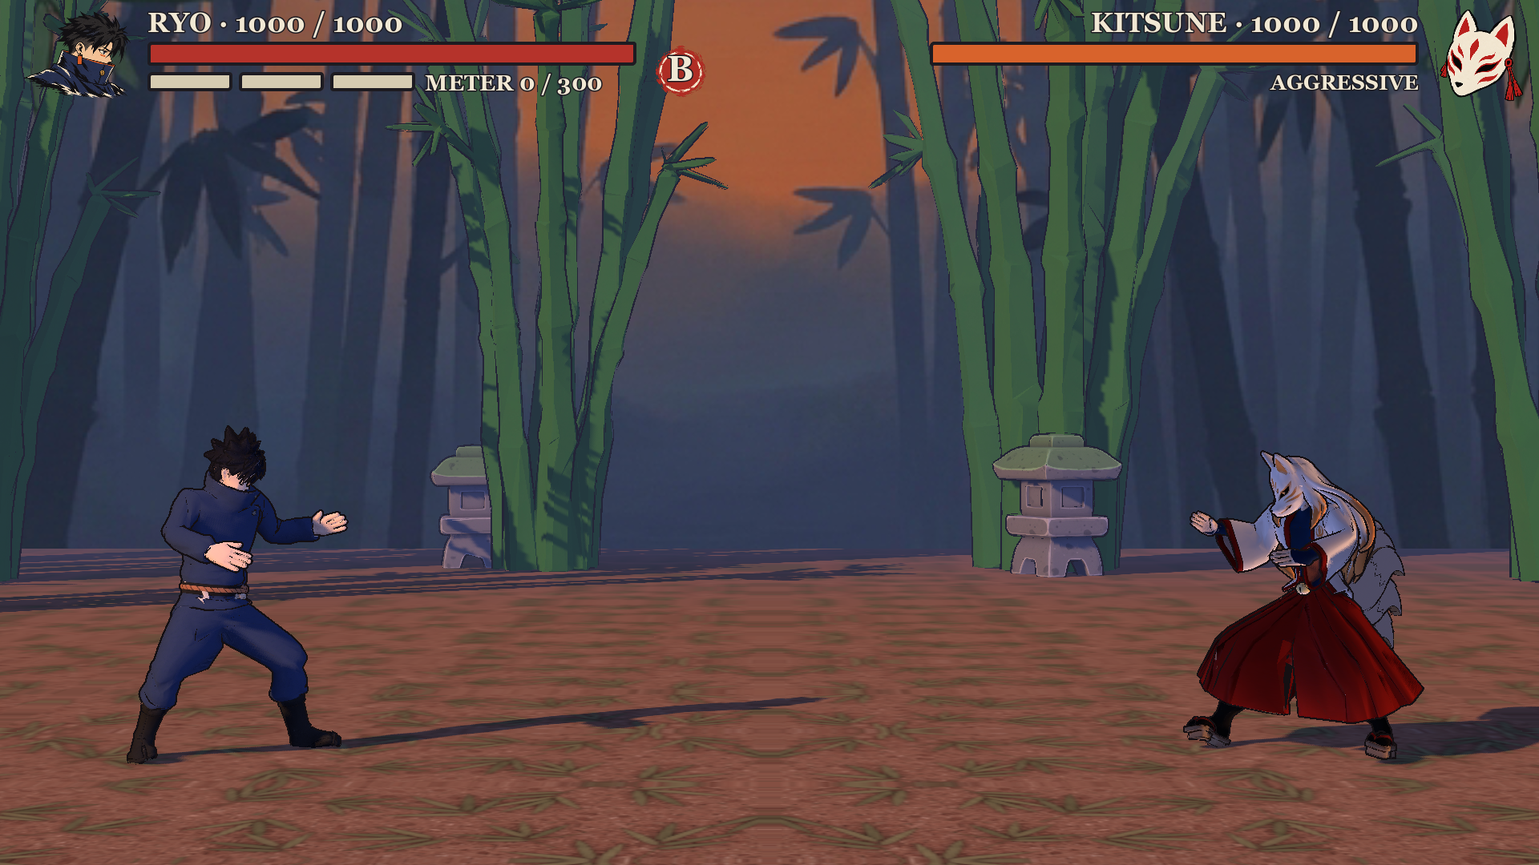
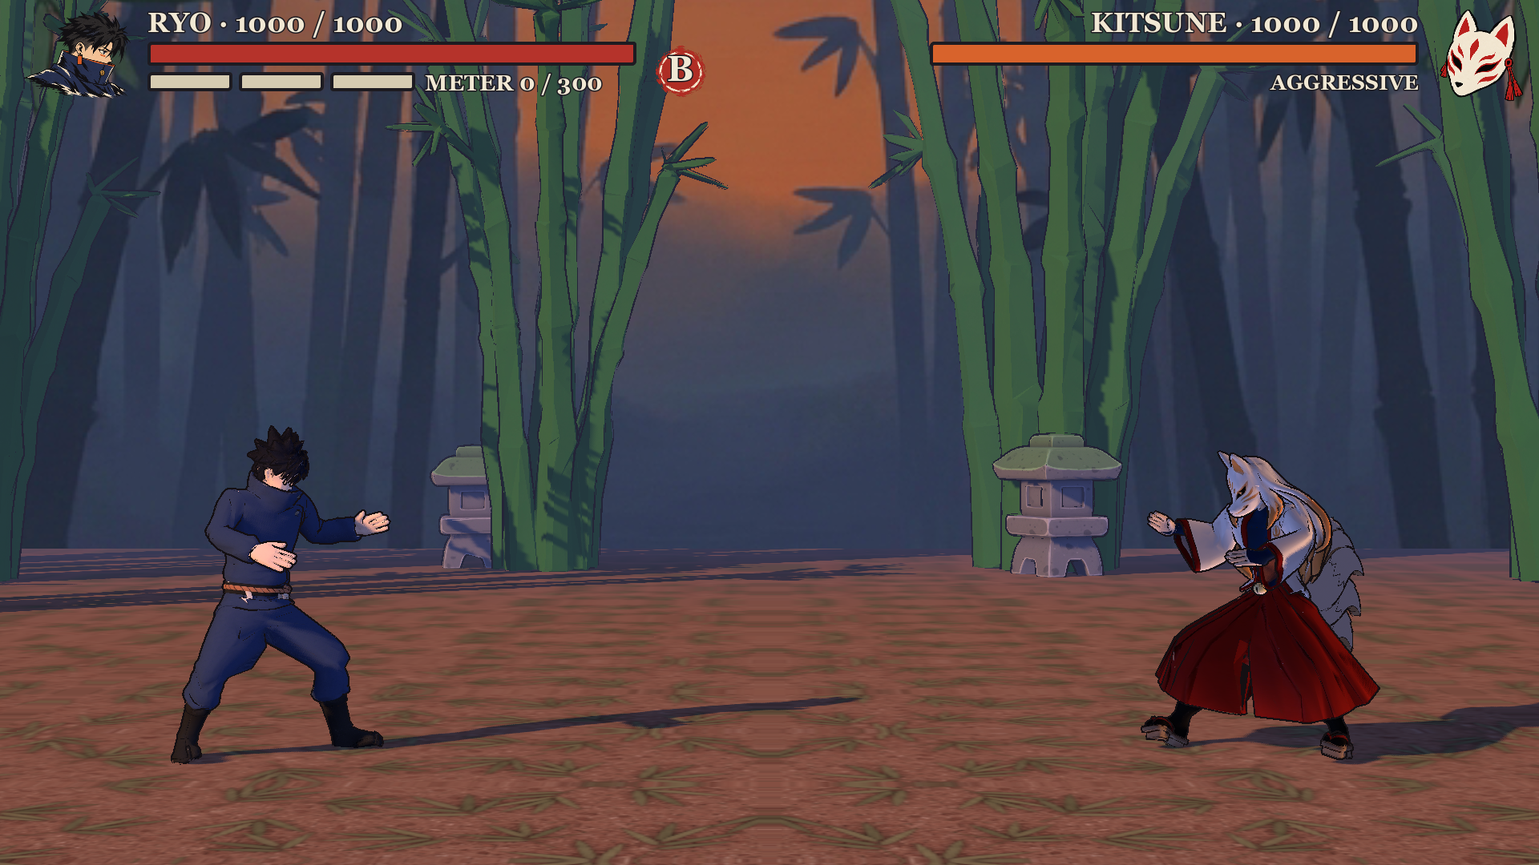
YOK-120-closer-camera-walls: walls 960, derived from view width and model reach (E1)
Test Breaker round 1: a fighter facing away shows its 240 front reach outside,
so 1040 + 2x240 > 1440 clipped by up to 40. MaxSeparation is now derived as
ViewWidth - 2 x max(front, back reach) = 960 (init still overrides). Trial
max distance follows it (TrialLoader.MaxStartDistance, schema 960). Probe
constants 1040/1041/520 -> 960/961/480. Coverage seed 7 -> 8. AM7, E1, log,
map, max-separation capture updated.

Changed region(s): [[0.0625, 0.4889, 0.5625, 0.8861], [0.7188, 0.5194, 1.0, 0.8861]]

diff --git a/game/tests/probes/CloserCameraProbes.cs b/game/tests/probes/CloserCameraProbes.cs
@@ -25,7 +25,7 @@ public static class CloserCameraProbes
 		return m;
 	}
 
-	// E1: fighters at most 1,040 apart AND both models in frame. Fuzz with throws, specials, jumps, dashes, from
+	// E1: fighters at most 960 apart AND both models in frame. Fuzz with throws, specials, jumps, dashes, from
 	// corner starts and mid-stage, over several seeds; check every tick, including side switches (jump-overs).
 	[Test]
 	public static void Walls_HoldUnderEverything_CornersAndMid()
@@ -82,17 +82,17 @@ public static class CloserCameraProbes
 			var m2 = NewMatch();
 			m2.P1.X = -sign * 100; m2.P2.X = sign * (c.MaxSeparation - 100) ;
 			for (int t = 0; t < 30; t++) m2.Step(In(sign > 0 ? InputBits.Left : InputBits.Right), In(sign > 0 ? InputBits.Right : InputBits.Left));
-			Assert.Equal(c.MaxSeparation, Math.Abs(m2.P2.X - m2.P1.X), "walking apart holds at exactly 1,040 (not 1,039, not 1,041)");
+			Assert.Equal(c.MaxSeparation, Math.Abs(m2.P2.X - m2.P1.X), "walking apart holds at exactly 960 (not 1,039, not 961)");
 		}
 	}
 
-	// F4/E1: the view is fixed 1,440 and centred on the midpoint: with fighters 1,040 apart in the corner, models 240/200 inside.
+	// F4/E1: the view is fixed 1,440 and centred on the midpoint: with fighters 960 apart in the corner, models 240/200 inside.
 	[Test]
 	public static void Camera_ExactCornerExtents_BothFacingsAndSides()
 	{
 		var c = SimConfig.Default;
 		Assert.Equal(1440 * SimConfig.Scale, c.ViewWidth, "E1: one screen is 1,440 units");
-		Assert.Equal(1040 * SimConfig.Scale, c.MaxSeparation, "E1: 1,040 apart");
+		Assert.Equal(960 * SimConfig.Scale, c.MaxSeparation, "E1: 960 apart");
 		Assert.Equal(3840 * SimConfig.Scale, c.StageHalfWidth * 2, "E1: stage 3,840 wide");
 		int corner = c.StageHalfWidth - c.BodyWidth / 2;
 		foreach (int side in new[] { -1, 1 })
@@ -161,21 +161,21 @@ public static class CloserCameraProbes
 		Assert.True(Math.Abs(dn / dw - 0.75f) < 1e-3f, $"distance ratio {dn / dw} should be 1440/1920 = 0.75 (same FOV)");
 	}
 
-	// R7 / E1: trial start distance 1,040 accepted, 1,041 rejected; also in a goal-step distance bound.
+	// R7 / E1: trial start distance 960 accepted, 961 rejected; also in a goal-step distance bound.
 	[Test]
-	public static void Trial_StartDistanceBoundary_1040In_1041Out()
+	public static void Trial_StartDistanceBoundary_960In_961Out()
 	{
 		string f = File.ReadAllText(Path.Combine(ContentPaths.FixturesDir, "trials", "test-spirit-wave-trial.json"));
-		Assert.Equal(1040, TrialLoader.Parse(f.Replace("\"distance\": 600,", "\"distance\": 1040,")).Distance, "1,040 accepted");
+		Assert.Equal(960, TrialLoader.Parse(f.Replace("\"distance\": 600,", "\"distance\": 960,")).Distance, "960 accepted");
 		Assert.Equal(120, TrialLoader.Parse(f.Replace("\"distance\": 600,", "\"distance\": 120,")).Distance, "120 accepted");
-		foreach (int bad in new[] { 1041, 1520, 119, 0, -1 })
+		foreach (int bad in new[] { 961, 1520, 119, 0, -1 })
 		{
 			bool threw = false;
 			try { TrialLoader.Parse(f.Replace("\"distance\": 600,", $"\"distance\": {bad},")); } catch (FormatException) { threw = true; }
 			Assert.True(threw, $"start distance {bad} rejected");
 		}
-		TrialLoader.Parse(f.Replace("\"max\": 900", "\"max\": 1040"));
-		foreach (string repl in new[] { "\"max\": 1041", "\"min\": 1041", "\"max\": 1520" })
+		TrialLoader.Parse(f.Replace("\"max\": 900", "\"max\": 960"));
+		foreach (string repl in new[] { "\"max\": 961", "\"min\": 961", "\"max\": 1520" })
 		{
 			bool threw = false;
 			string src = repl.StartsWith("\"max") ? f.Replace("\"max\": 900", repl) : f.Replace("\"min\": 400", repl);
@@ -184,14 +184,14 @@ public static class CloserCameraProbes
 		}
 	}
 
-	// A trial start at 1,040 plays out: the fighters at the declared distance are legal and in frame.
+	// A trial start at 960 plays out: the fighters at the declared distance are legal and in frame.
 	[Test]
 	public static void Trial_StartAtMaxDistance_InFrameAndLegal()
 	{
 		var m = NewMatch();
-		m.P1.X = -520 * SimConfig.Scale; m.P2.X = 520 * SimConfig.Scale;
+		m.P1.X = -480 * SimConfig.Scale; m.P2.X = 480 * SimConfig.Scale;
 		for (int t = 0; t < 20; t++) m.Step(FighterInput.None, FighterInput.None);
-		Assert.Equal(1040 * SimConfig.Scale, m.P2.X - m.P1.X, "start separation survives");
+		Assert.Equal(960 * SimConfig.Scale, m.P2.X - m.P1.X, "start separation survives");
 		Assert.True(FightCamera.BothInView(m), "in frame");
 	}
 

diff --git a/game/scripts/Sim/SimConfig.cs b/game/scripts/Sim/SimConfig.cs
@@ -29,12 +29,19 @@ public sealed partial record SimConfig
 	public int BodyWidth { get; init; } = 120 * Scale;
 
 	/// <summary>
-	/// Screen walls: the farthest two fighters may be apart so both stay in view, with both models' back reach (a
-	/// knocked-down body lies 200 behind its X, <see cref="ModelBackReach"/>) inside the view. E1/AM7 (YOK-120):
-	/// 1,040 + 2 x 200 = 1,440 = <see cref="ViewWidth"/> (was 1,520 for the 1,920 view, YOK-39). Trial start
-	/// distances are capped at this (TrialData.MaxStartDistance, trial.schema.json).
+	/// Screen walls: the farthest two fighters may be apart so both models stay in view whichever way each faces.
+	/// Derived, so it cannot drift: <see cref="ViewWidth"/> - 2 x the larger model reach (front 240 / back 200), because
+	/// a fighter facing away from the other shows its 240 front reach on the outside. E1/AM7 (YOK-120):
+	/// 960 + 2 x 240 = 1,440 (was 1,520 for the 1,920 view, YOK-39, which only budgeted the 200 back reach).
+	/// Setting it in an initializer overrides the derivation (tests). Trial start distances are capped at this
+	/// (TrialData.MaxStartDistance, trial.schema.json).
 	/// </summary>
-	public int MaxSeparation { get; init; } = 1040 * Scale;
+	public int MaxSeparation
+	{
+		get => _maxSeparation ?? ViewWidth - 2 * System.Math.Max(System.Math.Max(ModelFrontReach, ModelBackReach), BodyWidth / 2);
+		init => _maxSeparation = value;
+	}
+	private readonly int? _maxSeparation;
 
 	/// <summary>
 	/// YOK-39: how far a fighter's rigged model reaches past its X toward its facing (front) and away from it (back),

diff --git a/game/tests/ReplayTests.cs b/game/tests/ReplayTests.cs
@@ -163,7 +163,7 @@ public static class ReplayTests
 	static void RandomCoverage()
 	{
 		FightScene.Run = null;
-		foreach (var (seed, s1, s2) in new[] { (1, ControlScheme.Kata, ControlScheme.Kihon), (7, ControlScheme.Kihon, ControlScheme.Kata), (6, ControlScheme.Kata, ControlScheme.Kata) }) // coverage seeds, re-picked when a sim change stops one bursting: YOK-120 (AM7 walls 1040) stopped seeds 4 and 5 bursting, so 7 and 6 (earlier: 3 -> 5 for wake-ups, 2 -> 4 for the YOK-39 walls)
+		foreach (var (seed, s1, s2) in new[] { (1, ControlScheme.Kata, ControlScheme.Kihon), (8, ControlScheme.Kihon, ControlScheme.Kata), (6, ControlScheme.Kata, ControlScheme.Kata) }) // coverage seeds, re-picked when a sim change stops one bursting: YOK-120 (AM7 walls, 960) stopped seeds 4 and 5 bursting, so 8 and 6 (earlier: 3 -> 5 for wake-ups, 2 -> 4 for the YOK-39 walls)
 		{
 			var m = FightScene.NewMatch();
 			m.P1.Input.Scheme = s1;

diff --git a/game/scripts/Sim/Run/TrialData.cs b/game/scripts/Sim/Run/TrialData.cs
@@ -153,7 +153,9 @@ public static class TrialLoader
 	public static readonly string[] KataOnlyKeys = { "motion", "precision", "kata" };
 
 	// Bounds mirror trial.schema.json: distance = SimConfig body width .. max separation (gameplay units, AM7).
-	public const int MinStartDistance = 120, MaxStartDistance = 1040;
+	public const int MinStartDistance = 120;
+	/// <summary>The screen walls (SimConfig.MaxSeparation, 960 under AM7), so the bound cannot drift from the sim.</summary>
+	public static readonly int MaxStartDistance = SimConfig.Default.MaxSeparation / SimConfig.Scale;
 	public const int MinAttemptFrames = 60, MaxAttemptFrames = 3600;
 	public const int MaxSteps = 4, MaxCount = 10, MaxLandedWithin = 60, MaxEvery = 600, MaxDummyMoves = 4, MaxPrompt = 160;
 

diff --git a/game/tests/TrialTests.cs b/game/tests/TrialTests.cs
@@ -155,7 +155,7 @@ public static class TrialTests
 		Assert.True(!step.DummyStateMet(false, bestLand), "and could never be met if it were read when the throw lands");
 		Assert.True(!step.DummyStateMet(true, 0), "airborne is not landed");
 		Assert.True(!step.DummyStateMet(false, 4) && !step.DummyStateMet(false, 2000), "too long ago, or never jumped");
-		Assert.True(step.DistanceMet(0) && step.DistanceMet(1520), "no distance asked");
+		Assert.True(step.DistanceMet(0) && step.DistanceMet(TrialLoader.MaxStartDistance), "no distance asked");
 		var ranged = TrialLoader.LoadFile(FixturePath).Steps[0];
 		Assert.True(ranged.DistanceMet(400) && ranged.DistanceMet(900) && !ranged.DistanceMet(399) && !ranged.DistanceMet(901), "distance bounds are inclusive");
 	}

diff --git a/docs/codebase-map.md b/docs/codebase-map.md
@@ -20,7 +20,7 @@ Pure C#, **no Godot types**, integers only, so it runs headless for tests and th
 
 | File | Purpose |
 |---|---|
-| `SimConfig.cs` | Fight constants (record with defaults; a data loader fills it later). Positions in **centi-units** (`Scale` = 100 per gameplay unit). Stage half-width, view width, body (push-box) width, max separation (screen walls), walk speed (C2), max health (C1), KO slow-down (V4); YOK-16 fight-wide hit fallbacks: idle hurtbox, default hit/block pushback, knockdown frames (placeholder, C4), counterhit +20% / +6 (C7). YOK-18 movement: `DashFrames` 18 / `JumpFrames` 40 (C2) with **proposed** dash distances (300 fwd, 240 back), jump height 250 and drift 8 units/frame; `JumpY(n)` integer parabola, `DashStep(n, dist)` exact per-frame split. `WakeUpFrames` (YOK-53 follow-up, 28 proposed, 0 = none) follows `KnockdownFrames` in `Match.AdvanceState`. Idle hurtboxes per stance (E5, measured from the models in YOK-33, designer accepted in YOK-39): standing `IdleHurtbox` 90x320, `CrouchHurtbox` 90x240, `AirHurtbox` Box(-45, 40, 90, 270). YOK-120/AM7 (proposed): `ViewWidth` 1440 (was 1920) and `MaxSeparation` 1040 (was 1520, before that 1600, E1); `StageHalfWidth` stays 1920 (3,840-unit stage) and `ModelFrontReach` 240 / `ModelBackReach` 200 (models' measured reach, read only by `FightCamera`). |
+| `SimConfig.cs` | Fight constants (record with defaults; a data loader fills it later). Positions in **centi-units** (`Scale` = 100 per gameplay unit). Stage half-width, view width, body (push-box) width, max separation (screen walls), walk speed (C2), max health (C1), KO slow-down (V4); YOK-16 fight-wide hit fallbacks: idle hurtbox, default hit/block pushback, knockdown frames (placeholder, C4), counterhit +20% / +6 (C7). YOK-18 movement: `DashFrames` 18 / `JumpFrames` 40 (C2) with **proposed** dash distances (300 fwd, 240 back), jump height 250 and drift 8 units/frame; `JumpY(n)` integer parabola, `DashStep(n, dist)` exact per-frame split. `WakeUpFrames` (YOK-53 follow-up, 28 proposed, 0 = none) follows `KnockdownFrames` in `Match.AdvanceState`. Idle hurtboxes per stance (E5, measured from the models in YOK-33, designer accepted in YOK-39): standing `IdleHurtbox` 90x320, `CrouchHurtbox` 90x240, `AirHurtbox` Box(-45, 40, 90, 270). YOK-120/AM7 (proposed): `ViewWidth` 1440 (was 1920) and `MaxSeparation` 960, derived as `ViewWidth` − 2 × the larger model reach unless set (was 1520, before that 1600, E1); `StageHalfWidth` stays 1920 (3,840-unit stage) and `ModelFrontReach` 240 / `ModelBackReach` 200 (models' measured reach, read only by `FightCamera`). |
 | `FighterInput.cs` | `InputBits` flags + `FighterInput(Bits, Move)`: one fighter's **raw** input for one tick — absolute Left/Right/Up/Down, six attack buttons (LP MP HP LK MK HK) and Kihon's `Special` (K1/K2) — plus `Move` (0 = none, n = move slot n-1, sent on the tick a move is requested; `FighterInput.Attack(slot)`; YOK-21: 201-204 = special slot A-D, 205-208 = EX, `FighterInput.Special(slot, ex)`, no precision bonus). Device mapping, the AI (P6) and replays produce the bits; the input layer below turns them into commands. `Debug*` bits are YOK-15 placeholders (cross-up, flat strike) kept for the loop tests. |
 | `Fighter.cs` | `Fighter` state (X/Y on the 2D plane, Facing ±1, health, KO, previous input for edge detection, queued damage) and move state (YOK-16): `Moves` by slot, `FighterState` (Idle, Attack, Hitstun, Blockstun, Knockdown), `MoveSlot`/`MoveFrame` (1-based), `MoveConnected`, `StunLeft`, `Guarding`/`Crouching`, `Actionable`, `CurrentMove`; `Fnv` state hashing; `SimRng` seeded xorshift32 (the only RNG gameplay may use). YOK-18: `Input` (the fighter's `InputReader`), `AirFrame`/`JumpDir`/`Airborne`, `DashFrame`/`DashDir`; states `Dash` and `Jump` (airborne, no control; lands into Idle). YOK-53 follow-up: `WakeUp` (after the 40-frame knockdown, `SimConfig.WakeUpFrames` = 28 **proposed**: invulnerable via `Invulnerable`, not throwable, not actionable, no hurtbox; then Idle); `FighterStates.IsDown()` = Knockdown or WakeUp. YOK-19: state `Thrown` (grabbed; `StunLeft` = break-window frames left). YOK-20: state `Burst`. YOK-55: `AirAttackUsed`, state `Landing` (see `Match.Air.cs`). `WalkDir` (this tick's own walk step, YOK-39 drift fix; not hashed). |
 | `MoveData.cs` | `MoveData` (YOK-16): one move's Lv 1 frame data as loaded: startup/active/recovery, damage, hitstun/blockstun, optional pushback, knockdown, low, `Hitboxes`/`Hurtboxes` as `TimedBox(First, Last, Box)` in gameplay units (x toward the opponent). `IsActive(frame)`, `TotalFrames`, `AdvantageOnHit/OnBlock`. Normals (YOK-18): `Button` (None = special), `DirectionMask` (numpad bits, 0 = any), `IsNormal`, `NormalMatch(button, dir)`. Throws (YOK-19): `ThrowButtons` (two-button mask), `Throwboxes`, `BreakWindow`, `BreakPushback`, `IsThrow`, `ThrowMatch(pressed)`. |
@@ -258,7 +258,7 @@ JSON Schema draft 2020-12. Every content file is one JSON object with a top-leve
 | `story_card` | `story-card.schema.json` | `data/story/` | YOK-44: id, status, trigger (S3 schedule entry), optional title, text (S2, max 280), `placeholders` (`yokai`, `move`; the validator checks every `{name}` in title/text is listed and every listed one used, S4), speaker, rules, notes. Read by `StoryLibrary` |
 | `run_map` | `run-map.schema.json` | `data/map/` | YOK-76 (R1, R2, Y3): `schema_version` (1), optional name/status/`rules`, `nodes` (`id`, `row`, open `type` id, optional `yokai` id, `elder`, `label`, free-form `payload` object the map never reads) and `routes` (`from`/`to` node ids). `type` and `yokai` are open ids on purpose (the C# node-type registry decides which types exist). Read by `MapLoader` |
 | `node_scenes` | `node-scenes.schema.json` | `data/map/` | YOK-77 (R2, R3, A7, Y4): `default_scene`, `fallback_fighter`, `tiers` (`reaction_frames`), `types` (each needs `tier`; optional `scene`, `opponent`, `profile`, `binds`), optional `nodes` (same fields, per node id) and `opponents` (`fighter`, `tier`, `profile` per yokai id). Validator: every tier named is defined, and every node type used by a run map in the same folder has an entry. |
-| `trial` | `trial.schema.json` | `data/trials/` | YOK-105 (R7, K2): id, status, `special` it levels, `prompt`, `attempts` (const 3), `setup` (`distance` 120–1040 units (AM7), `attempt_frames` 60–3600, `dummy` {`action` idle/crouch/guard/crouch_guard/jump/attack, `moves` for attack, `every` for jump/attack}), `goal.steps` (1–4, in order: `event` hit/combo/throw/block, optional `move`, `count`, `counter`, `dummy_state` airborne/grounded/landed + `landed_within`, `distance` {min,max}). A throw step's `dummy_state`/`distance` are read on the grab tick; throws never count as `hit` or toward `combo`. Validator (`check_trial`, same as the loader): Kata-only step keys (motion, precision, kata) rejected as not Kihon-completable, one step names the trial's special, distance min ≤ max (whole floats compared as numbers), `block` and `counter: true` only with dummy `attack`, `every` ≤ `attempt_frames`, and for moves found in `data/moves/` or the same run a throw only in a throw step. Read by `TrialLoader`. No shipped trials yet (YOK-98); `tools/export-windows.sh` does not copy `data/trials/` yet. |
+| `trial` | `trial.schema.json` | `data/trials/` | YOK-105 (R7, K2): id, status, `special` it levels, `prompt`, `attempts` (const 3), `setup` (`distance` 120–960 units (AM7, `TrialData.MaxStartDistance` = `MaxSeparation`), `attempt_frames` 60–3600, `dummy` {`action` idle/crouch/guard/crouch_guard/jump/attack, `moves` for attack, `every` for jump/attack}), `goal.steps` (1–4, in order: `event` hit/combo/throw/block, optional `move`, `count`, `counter`, `dummy_state` airborne/grounded/landed + `landed_within`, `distance` {min,max}). A throw step's `dummy_state`/`distance` are read on the grab tick; throws never count as `hit` or toward `combo`. Validator (`check_trial`, same as the loader): Kata-only step keys (motion, precision, kata) rejected as not Kihon-completable, one step names the trial's special, distance min ≤ max (whole floats compared as numbers), `block` and `counter: true` only with dummy `attack`, `every` ≤ `attempt_frames`, and for moves found in `data/moves/` or the same run a throw only in a throw step. Read by `TrialLoader`. No shipped trials yet (YOK-98); `tools/export-windows.sh` does not copy `data/trials/` yet. |
 | — | `common.schema.json` | — | Shared `$defs`: id, yokai, rarity, status, ruleIds, card, frameRange, rect, timedRect, condition, effect |
 
 Not covered yet (out of YOK-12 scope): economy, presets, sound.

diff --git a/docs/design/gdd-amendments.md b/docs/design/gdd-amendments.md
@@ -149,7 +149,7 @@ Rule S3 in `docs/design/rules.md` carries the new wording.
 
 **Status.** Proposed on branch `YOK-120-closer-camera-walls`. The designer asked to "try bringing the walls in" (YOK-120, 2026-10-15); the numbers below are a first try and become approved only when the designer approves the PR.
 
-**Decision.** The fight camera sits closer to the fighters and stays fixed in distance. One screen at the gameplay plane is **1,440 units** (7.2 m), was 1,920 (9.6 m). The screen walls come in with it: fighters are at most **1,040 units** apart, was 1,520, so both rigged models (up to 200 units behind their position) still fit: 1,040 + 2 × 200 = 1,440. The stage stays **3,840 units** wide (two of the old 1,920-unit screens, now about 2.7 of the new ones), so the stage art and the part of it the camera can ever show are unchanged. The camera still follows the fighters' midpoint and stops where a cornered fighter's model (up to 240 units ahead, 200 behind) meets the screen edge. All four numbers are tunable in one place (`SimConfig`).
+**Decision.** The fight camera sits closer to the fighters and stays fixed in distance. One screen at the gameplay plane is **1,440 units** (7.2 m), was 1,920 (9.6 m). The screen walls come in with it: fighters are at most **960 units** apart, was 1,520, so both rigged models stay in frame whichever way each faces. A model reaches up to 240 units ahead of its position and 200 behind; a fighter facing away from the other (after a cross-up, a throw or a back dash) shows its 240-unit front reach on the outside, so the walls budget the larger reach on both sides: 960 + 2 × 240 = 1,440. (The YOK-39 walls, 1,520 + 2 × 200 = 1,920, budgeted only the back reach, and a fighter facing away could clip by up to 40 units; test-breaker probes on YOK-120 found it.) `SimConfig` derives the walls from the screen width and the model reach, so the two cannot drift apart. The stage stays **3,840 units** wide (two of the old 1,920-unit screens, now about 2.7 of the new ones), so the stage art and the part of it the camera can ever show are unchanged. The camera still follows the fighters' midpoint and stops where a cornered fighter's model (up to 240 units ahead, 200 behind) meets the screen edge. The screen width and stage width are tunable in one place (`SimConfig`); the walls follow from the screen width.
 
 **Why.** Bigger fighters on screen: at 1,920 units a 1.8 m fighter filled about a third of the screen height; at 1,440 units, about 44%. A fixed closer camera keeps V7 (no zoom with distance); bringing the walls in is what keeps both fighters in view.
 
@@ -159,6 +159,6 @@ Rule S3 in `docs/design/rules.md` carries the new wording.
 
 | Where | Was | Now |
 |---|---|---|
-| rules.md E1 (scale; written rule, not in the PDF) | "one screen is 1,920 units (9.6 m); the stage is two screens wide; fighters are at most 1,520 units apart … 1,520 + 2 × 200 = 1,920" | "one screen is 1,440 units (7.2 m); the stage is 3,840 units wide; fighters are at most 1,040 units apart … 1,040 + 2 × 200 = 1,440" |
+| rules.md E1 (scale; written rule, not in the PDF) | "one screen is 1,920 units (9.6 m); the stage is two screens wide; fighters are at most 1,520 units apart … 1,520 + 2 × 200 = 1,920" | "one screen is 1,440 units (7.2 m); the stage is 3,840 units wide; fighters are at most 960 units apart … 960 + 2 × 240 = 1,440, either facing" |
 | §3.2 Fight basics, Movement row | "Walk crosses the screen in about 2.5 seconds" | Walk speed unchanged: about 2.5 seconds across 1,920 units, about 1.9 seconds across the closer 1,440-unit screen. Rule C2. |
 | §3.1 Presentation, Figure 2 | Camera3D at ~25° FOV | Unchanged FOV; the camera is closer to the plane. |

diff --git a/docs/decision-log.md b/docs/decision-log.md
@@ -15,10 +15,10 @@ Build week 2 of 5 (first commit 2026-10-06). Milestones in Linear: W1 ends 10-10
   - Coins have no cap, for now (R8).
 - **AM5** 2026-10-15: clip-matcher splits into `rig-specialist` and `animator`; level presets move to asset-smith. Generators are Tripo or Meshy (Tripo likely). Rigs try the generator auto-rig against AccuRIG 2. Blender cleanup by script, video mocap, ActorCore and Auto-Rig Pro allowed; Cascadeur only for its physics pass. One shared skeleton (Meshy's) with bone maps. Clips may carry retiming curves (F2), 0.5×–2× per segment, holds ≤4 frames (first pass).
 - **AM6** 2026-10-15: the fight HUD shows the copy-target talisman only in the Tanuki fight, never in yokai or elder fights. The map talisman and the rest-stop forecast still show the target all run (T6). Copy rule unchanged.
-- **AM7** 2026-10-15 (PROPOSED, designer approves at PR review, YOK-120): closer fixed camera, screen 1,920 → 1,440 units, screen walls 1,520 → 1,040 (1,040 + 2 × 200 = 1,440); stage stays 3,840; V7 steady camera and F4 ~25° FOV unchanged (camera moves closer); walk speed unchanged (~1.9 s across the new screen, C2). Values tunable in SimConfig.
+- **AM7** 2026-10-15 (PROPOSED, designer approves at PR review, YOK-120): closer fixed camera, screen 1,920 → 1,440 units, screen walls 1,520 → 960 (960 + 2 × 240 = 1,440: a fighter facing away shows its 240 front reach outside; first try 1,040 clipped by up to 40, found by test-breaker; derived in SimConfig); stage stays 3,840; V7 steady camera and F4 ~25° FOV unchanged (camera moves closer); walk speed unchanged (~1.9 s across the new screen, C2). Values tunable in SimConfig.
 
 ## Rules and tuning
-- 2026-10-06 E1–E24: engine defaults approved by the designer. Max separation is 1,520 units (lowered from 1,600 in YOK-39; 1,040 proposed in AM7).
+- 2026-10-06 E1–E24: engine defaults approved by the designer. Max separation is 1,520 units (lowered from 1,600 in YOK-39; 960 proposed in AM7).
 - 2026-10-06 YOK-41 / E21: at Lv 2, Spirit Wave recovers 4 frames faster and Rising Talisman 6 faster, both relative to the clip-derived Lv 1 recovery. Damage-only steps are out (P1).
 - 2026-10-06 YOK-31 / E15: strikes are open-handed (the rig has no finger bones). The generic throw is the Meshy 259 `Step_Forward_and_Push` clip, head-trimmed from tick 30.
 - 2026-10-11 YOK-87: a whole number written as `1e2` reads as 100. Save format is v2.

diff --git a/docs/design/rules.md b/docs/design/rules.md
@@ -60,7 +60,7 @@ Items marked **Full game** are stretch goals and must not be built in the 5-week
 
 Values the GDD leaves open, proposed by the YOK-15/16/17/18 code and accepted by the designer. Tunable like every other number here.
 
-- **E1** Scale: 200 units per metre; one screen is 1,440 units (7.2 m) [AM7, proposed; was 1,920]; the stage is 3,840 units wide (two of the old 1,920-unit screens); fighters are at most 1,040 units apart (screen walls, so both rigged models, up to 200 units behind their position, stay in frame: 1,040 + 2 × 200 = 1,440) [AM7; was 1,520 from YOK-39, 1,600 before]. The camera stays at a fixed distance (~25° FOV, F4), follows the fighters' midpoint and stops where the cornered fighter's model (up to 240 units ahead, 200 behind) meets the screen edge.
+- **E1** Scale: 200 units per metre; one screen is 1,440 units (7.2 m) [AM7, proposed; was 1,920]; the stage is 3,840 units wide (two of the old 1,920-unit screens); fighters are at most 960 units apart (screen walls, so both rigged models, up to 240 units ahead of and 200 behind their position, stay in frame whichever way each faces: 960 + 2 × 240 = 1,440) [AM7; was 1,520 from YOK-39, 1,600 before]. The camera stays at a fixed distance (~25° FOV, F4), follows the fighters' midpoint and stops where the cornered fighter's model (up to 240 units ahead, 200 behind) meets the screen edge.
 - **E2** KO slow-down (V4): the world plays the 30 frames over 60 real ticks; inputs are ignored meanwhile.
 - **E3** Every yokai has 1,000 health until the yokai rules give its own figure.
 - **E4** Standard knockdown (C4): 40 frames.
